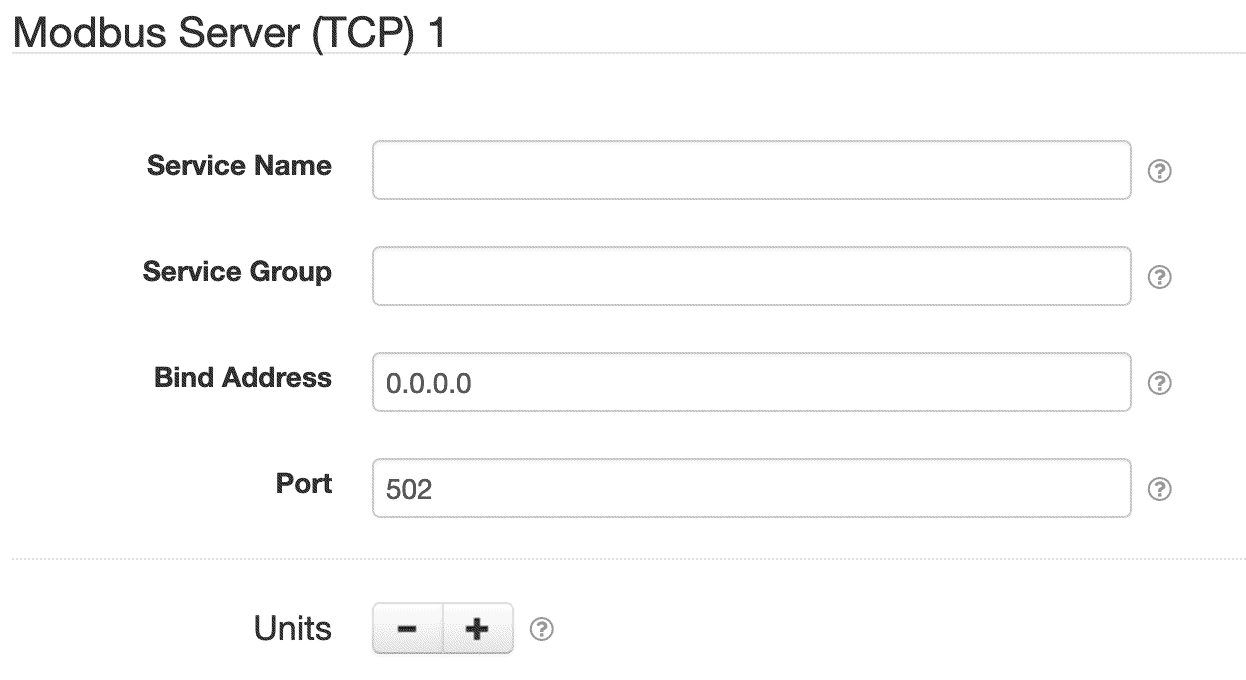
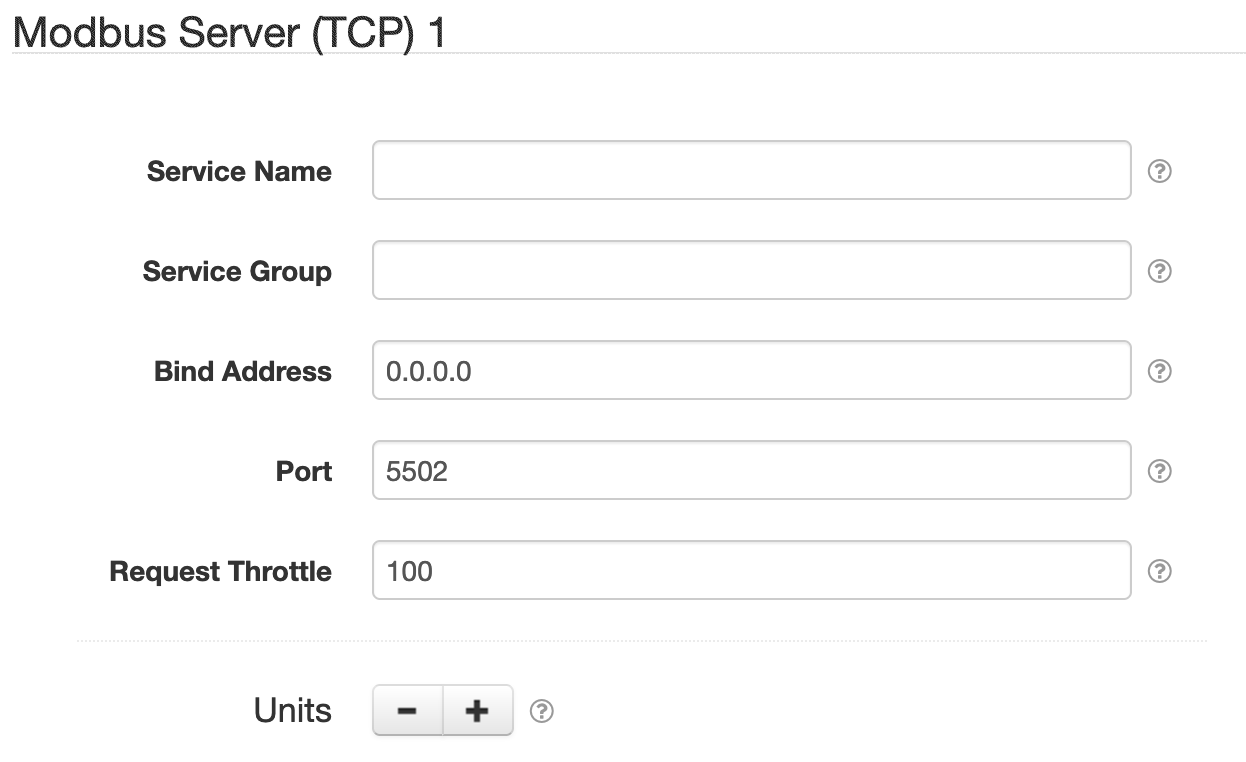
Add documentation on Modbus Server CSV configurer.

diff --git a/net.solarnetwork.node.io.modbus.server/README.md b/net.solarnetwork.node.io.modbus.server/README.md
@@ -25,7 +25,82 @@ Each configuration part contains a list of the subsequent configuration part. Th
 configuration can have multiple unit configurations, which can contain multiple register block 
 configurations, which can have multiple measurement configurations.
 
-## Server configuration
+# CSV Configurer
+
+This plugin also provides a **Modbus Server CSV Configurer** component will appear on the main
+settings page. This component lets you upload a Modbus Server CSV Configuration file to configure
+all Modbus Server components, without having to use the settings form.
+
+![CSV Configurer settings](docs/solarnode-modbus-tcp-server-csv-configurer.png)
+
+## Modbus Server CSV Configuration Format
+
+The Modbus Server CSV Configuration uses the column structure detailed
+[below](#csv-column-definition), with each row representing an individual datum property to expose
+in Modbus server registers. A header row is required. Comment lines are allowed, just start the line
+with a `#` character (i.e. the first cell value). The entire comment line will be ignored.
+
+Here's an example screen shot of a configuration in a spreadsheet application. It is for one server
+with one unit with two register blocks:
+
+ 1. A **Holding** register block starting at register `0` with 3 datum properties: `watts`, `wattHours`, and `voltage`
+ 2. An **Input** register block starting at register `100` with 2 datum properties: `frequency` and `current`
+
+Spreadsheet applications generally allows you to export the sheet in the CSV format, which can then
+be loaded into SolarNode via the CSV Configurer.
+
+![CSV Configuration example](docs/solarnode-modbus-tcp-server-csv-configuration-example-sheet.png)
+
+### Instance identifiers
+
+Individual Modbus Device components are defined by the first column (**Instance ID**). You can
+assign any identifier you like (such as `Meter`, `Inverter`, and so on) or configure as a single
+dash character `-` to have SolarNode assign a simple number identifier. Once an Instance ID has been
+assigned on a given row, subsequent rows will use that value if the corresponding cell value is left
+empty.
+
+### CSV column definition
+
+The following table defines all the CSV columns used by Modbus Server CSV Configuration. Columns
+**A - D** apply to the **entire Modbus Server configuration**, and only the values from the row that
+defines a new Instance ID will be used to configure the server. Thus you can omit the values from
+these columns when defining more than one register for a given server.
+
+Columns **E - M** define the mapping of datum properties to Modbus registers: each row defines an
+individual datum property which occupies one or more Modbus registers.
+
+
+| Col | Name | Type | Default | Description |
+|:----|:-----|:-----|:--------|:------------|
+| `A` | **Instance ID** | string |  | The unique identifier for a single Modbus Server component. Can specify `-` to automatically assign a simple number value, which will start at `1`. |
+| `B` | **Bind Address** | string | `0.0.0.0` | The IP address or host name to listen on. Set to `0.0.0.0` to listen on all available addresses. |
+| `C` | **Port** | integer | `502` | The TCP port to listen on. See [port considerations](#solarnodeos-port-considerations) for more info. |
+| `D` | **Throttle** | integer | `100` | A number of **milliseconds** to throttle client requests by. |
+| `E` | **Unit ID** | integer | `1` | The Modbus unit ID from `0` - `255`. |
+| `F` | **Register Type** | enum |  | The Modbus register type. Must be one of `Coil`, `Discrete Input`, `Holding`, or `Input`. |
+| `G` | **Register** | integer |  | The starting register address for the property value (zero-based). For multi-register data types this is the _first_ register the property value will be available at. |
+| `H` | **Data Type** | enum | `u16` | The type of data to encode the datum property value into. Must be one of `Boolean` or `bit`, `16-bit float` or `f16`, `32-bit float` or `f32`, `16-bit signed int` or `i16`, `16-bit unsigned int` or `u16`, `32-bit signed int` or `i32`, `32-bit unsigned int` or `u32`, `64-bit signed int` or `i64`, `64-bit unsigned int` or `u16`, `Bytes` or `b`, `String UTF-8` or `s`, `String ASCII` or `a`. |
+| `I` | **Data Length** | integer |  | For variable-length data types such as strings, the number of Modbus registers to encode the datum property value into. For fixed-length data types this column is ignored. |
+| `J` | **Source ID** | string |  | The datum source ID that holds the property to expose. |
+| `K` | **Property** | string |  | The name of the datum property to to encode into Modbus registers. |
+| `L` | **Multiplier** | decimal | `1` | For numeric data types, a multiplier to apply to the datum property value to normalize it into a standard unit. |
+| `M` | **Decimal Scale** | integer | `0` | For numeric data types, a maximum number of decimal places to round decimal numbers to, or `-1` to not do any rounding. |
+
+## Example CSV
+
+Here is the CSV as shown in the example configuration screen shot above:
+
+```csv
+Instance ID,Bind Address,Port,Throttle,Unit ID,Register Type,Register,Data Type,Data Length,Source ID,Property,Multiplier,Decimal Scale
+1,0.0.0.0,5020,100,1,Holding,0,UInt16,1,Mock Energy Meter,watts,1,0
+,,,,,,,UInt64,4,Mock Energy Meter,wattHours,1,0
+,,,,,,,Float32,2,Mock Energy Meter,voltage,1,3
+,,,,,Input,100,UInt32,1,Mock Energy Meter,frequency,10,0
+,,,,,,,Float32,2,Mock Energy Meter,current,1,-1
+```
+
+
+# Server configuration
 
 The server configuration defines the port number and address to listen on.
 
@@ -38,10 +113,11 @@ Each server configuration contains the following settings:
 | Service Name       | A unique name to identify this data source with. |
 | Service Group      | A group name to associate this data source with. |
 | Bind Address       | The IP address or host name to listen on. Set to `0.0.0.0` to listen on all available addresses. |
-| Port               | The port number to listen on. The default Modbus port is `502`. |
+| Port               | The port number to listen on. The default Modbus port is `502`. See [port considerations](#solarnodeos-port-considerations) for more info. |
+| Request Throttle   | A number of milliseconds to limit client requests by. |
 | Units              | The list of [unit configurations](#unit-configuration). |
 
-### SolarNodeOS port considerations
+## SolarNodeOS port considerations
 
 By default SolarNodeOS has a built-in firewall enabled that will not allow access to arbitrary TCP
 ports. Additionally, the SolarNode service runs as an unprivileged user that cannot listen on ports
